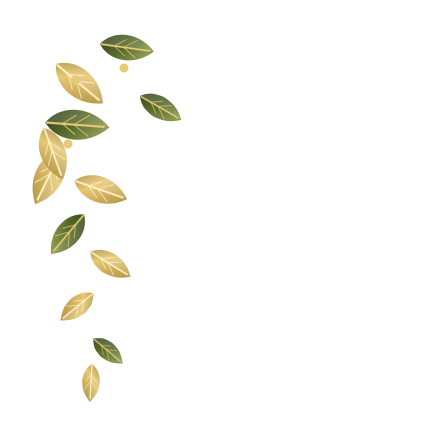
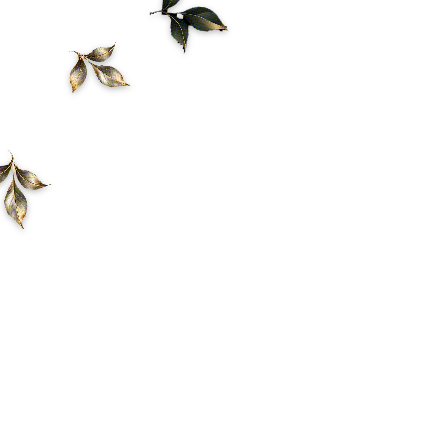
Use the supplied olive and gold leaf artwork for all leaf decoration

diff --git a/src/components/Flora.jsx b/src/components/Flora.jsx
@@ -2,7 +2,7 @@
 // baked from the vector source in FloraArt.jsx so the browser only moves flat pictures (cheap) instead of painting hundreds of shapes.
 const MIRROR = { tl: 'none', tr: 'scaleX(-1)', br: 'scale(-1,-1)', bl: 'scaleY(-1)' };
 const ORIGIN = { tl: '0 0', tr: '100% 0', br: '100% 100%', bl: '0 100%' };
-const V = '5'; // bump when the baked art changes (the server caches images for a year)
+const V = '6'; // bump when the baked art changes (the server caches images for a year)
 const LAYERS = [[`/decor/flora-1.png?v=${V}`, 0], [`/decor/flora-2.png?v=${V}`, 0.5], [`/decor/flora-3.png?v=${V}`, 1]];
 
 /** A bouquet for a frame or section corner. Layers bloom in turn (CSS) once `on`, then the bouquet sways. */
@@ -22,21 +22,13 @@ export function GarlandBlossom({ index = 0, size = 18 }) {
   return <img src={`/decor/blossom-${index % 5}.png?v=${V}`} alt="" width={size} height={size} decoding="async" style={{ display: 'block' }} />;
 }
 
-// Small inline leaf sprig (three leaves on a stem) for the footer vine, ribbon and frame corners. Named Blossom for historical reasons.
-const SPRIG = 'M0 0 C-4.6 -3 -4.6 -9 0 -12 C4.6 -9 4.6 -3 0 0Z';
-const SPRIG_HALF = 'M0 0 C4.6 -3 4.6 -9 0 -12Z';
-export function Blossom({ fill = '#566A2B', centre = '#E6C875', size = 18, className = '', x, y, style }) {
+// Small leaf sprig (the supplied olive / gold leaf artwork) for the footer vine, ribbon and frame corners.
+// `variant` is 'olive' or 'gold'. Kept under the name Blossom so existing callers keep working.
+export function Blossom({ variant = 'olive', size = 18, className = '', x, y, style }) {
   return (
-    <svg viewBox="-12 -12 24 24" width={size} height={size} x={x} y={y} className={className} style={style} aria-hidden="true">
-      <path d="M0 11 V4" stroke={centre} strokeWidth="1" strokeLinecap="round" />
-      {[[-52, 0.78], [52, 0.78], [0, 1]].map(([r, sc], i) => (
-        <g key={i} transform={`translate(0 5) rotate(${r}) scale(${sc})`}>
-          <path d={SPRIG} fill={fill} />
-          <path d={SPRIG_HALF} fill="#fff" opacity=".18" />
-          <path d="M0 -.5 V-10.5" stroke={centre} strokeWidth=".9" strokeLinecap="round" />
-        </g>
-      ))}
+    <svg viewBox="0 0 100 100" width={size} height={size} x={x} y={y} className={className} style={style} aria-hidden="true">
+      <image href={`/decor/leaf-${variant}.png?v=${V}`} width="100" height="100" preserveAspectRatio="xMidYMid meet" />
     </svg>
   );
 }
-export const BLOSSOM_COLOURS = ['#566A2B', '#C9A24A', '#3F4E21', '#8E9B52', '#E0BE63'];
+export const BLOSSOM_VARIANTS = ['olive', 'gold', 'olive', 'gold', 'gold'];

diff --git a/src/components/Footer.jsx b/src/components/Footer.jsx
@@ -2,7 +2,7 @@ import { Lnk, Txt } from '../cms/fields.jsx';
 import { useCms } from '../cms/store.jsx';
 import { Stagger, Item } from './motion.jsx';
 import { motion } from 'framer-motion';
-import { BLOSSOM_COLOURS, Blossom } from './Flora.jsx';
+import { BLOSSOM_VARIANTS, Blossom } from './Flora.jsx';
 
 const VINE = Array.from({ length: 14 }, (_, i) => ({ x: 60 + i * 80, up: i % 2 === 0 }));
 
@@ -14,14 +14,14 @@ function Vine() {
       {VINE.map((l, i) => (
         <g key={i} transform={`translate(${l.x} ${l.up ? 14 : 30})`}>
           <motion.g style={{ transformBox: 'fill-box', transformOrigin: 'center' }} initial={{ scale: 0, rotate: -90 }} whileInView={{ scale: 1, rotate: 0 }} viewport={{ once: true, margin: '-40px' }} transition={{ type: 'spring', stiffness: 130, damping: 11, delay: 0.5 + i * 0.13 }}>
-            <Blossom fill={['#566A2B', '#C9A24A', '#8E9B52'][i % 3]} centre="#E6C875" size={15} x={-7.5} y={-7.5} />
+            <Blossom variant={i % 2 ? 'gold' : 'olive'} size={22} x={-11} y={-11} />
           </motion.g>
         </g>
       ))}
       {VINE.filter((_, i) => i % 2 === 1).map((l, i) => (
         <g key={`b${i}`} transform={`translate(${l.x + 40} ${l.up ? 22 : 24})`}>
           <motion.g style={{ transformBox: 'fill-box', transformOrigin: 'center' }} initial={{ scale: 0, rotate: -60 }} whileInView={{ scale: 1, rotate: 0 }} viewport={{ once: true, margin: '-40px' }} transition={{ type: 'spring', stiffness: 130, damping: 10, delay: 1.1 + i * 0.2 }}>
-            <g className="flora__breath" style={{ animationDelay: `${i * 0.4}s` }}><Blossom fill={BLOSSOM_COLOURS[i % 3]} size={20} x={-10} y={-10} /></g>
+            <g className="flora__breath" style={{ animationDelay: `${i * 0.4}s` }}><Blossom variant={BLOSSOM_VARIANTS[i % 5]} size={26} x={-13} y={-13} /></g>
           </motion.g>
         </g>
       ))}

diff --git a/src/components/DecorFrame.jsx b/src/components/DecorFrame.jsx
@@ -14,10 +14,10 @@ function framePath(w, h, radii) {
 
 // A small leafy sprig drawn for the top-left corner; the other corners mirror it. Leaves unfurl one after another.
 const BLOOMS = [
-  { x: 6, y: 33, s: 11, c: '#C9A24A' },
-  { x: 12, y: 20, s: 14, c: '#566A2B' },
-  { x: 24, y: 11, s: 12, c: '#8E9B52' },
-  { x: 38, y: 7, s: 10, c: '#3F4E21' },
+  { x: 8, y: 33, s: 22, v: 'gold', r: -40 },
+  { x: 14, y: 21, s: 26, v: 'olive', r: -5 },
+  { x: 26, y: 12, s: 24, v: 'gold', r: 35 },
+  { x: 40, y: 8, s: 20, v: 'olive', r: 65 },
 ];
 const MIRROR = { tl: 'none', tr: 'scaleX(-1)', br: 'scale(-1,-1)', bl: 'scaleY(-1)' };
 
@@ -28,9 +28,9 @@ function Sprig({ corner, size, offset, on, delay, reduce }) {
     <svg className="decor-sprig" viewBox="0 0 60 60" width={size} height={size} style={{ ...pos, transform: MIRROR[corner] }} aria-hidden="true">
       <motion.path d="M5 44 C5 20 20 5 44 5" fill="none" stroke="currentColor" strokeWidth="1.4" strokeLinecap="round" initial={{ pathLength: 0 }} animate={{ pathLength: on ? 1 : 0 }} transition={t(0)} />
       {BLOOMS.map((l, i) => (
-        <g key={i} transform={`translate(${l.x} ${l.y})`}>
+        <g key={i} transform={`translate(${l.x} ${l.y}) rotate(${l.r})`}>
           <motion.g style={{ transformBox: 'fill-box', transformOrigin: 'center' }} initial={{ scale: 0, rotate: -120, opacity: 0 }} animate={{ scale: on ? 1 : 0, rotate: on ? 0 : -120, opacity: on ? 1 : 0 }} transition={reduce ? { duration: 0 } : { type: 'spring', stiffness: 120, damping: 11, delay: delay + 0.35 + i * 0.14 }}>
-            <Blossom fill={l.c} centre="#E6C875" size={l.s} x={-l.s / 2} y={-l.s / 2} />
+            <Blossom variant={l.v} size={l.s} x={-l.s / 2} y={-l.s} />
           </motion.g>
         </g>
       ))}

diff --git a/src/components/Ambient.jsx b/src/components/Ambient.jsx
@@ -56,7 +56,7 @@ export default function SectionDecor({ tone = 'light' }) {
           <Flora corner="bl" size={150} offset={-34} on={live} delay={0.4} className="flora--edge flora--edge-br" />
           {live && <Petals />}
           {live && FALL.filter((_, i) => i % 3 !== 2).map((l, i) => (
-            <Blossom key={i} className="ambient__leaf ambient__flower" fill={['#566A2B', '#C9A24A', '#8E9B52'][i % 3]} centre="#E6C875" size={l.s + 6} style={{ left: `${l.x}%`, '--dx': `${l.dx}px`, '--r': `${l.r}deg`, animationDuration: `${l.d}s`, animationDelay: `${l.t}s` }} />
+            <Blossom key={i} className="ambient__leaf ambient__flower" variant={i % 2 ? 'gold' : 'olive'} size={l.s + 14} style={{ left: `${l.x}%`, '--dx': `${l.dx}px`, '--r': `${l.r}deg`, animationDuration: `${l.d}s`, animationDelay: `${l.t}s` }} />
           ))}
         </>
       ) : (

diff --git a/src/cms/sections/marquee.jsx b/src/cms/sections/marquee.jsx
@@ -1,5 +1,5 @@
 import { Fragment } from 'react';
-import { BLOSSOM_COLOURS, Blossom } from '../../components/Flora.jsx';
+import { BLOSSOM_VARIANTS, Blossom } from '../../components/Flora.jsx';
 import { Txt } from '../fields.jsx';
 import { useCms } from '../store.jsx';
 
@@ -11,7 +11,7 @@ export function Marquee({ base, props: p }) {
   const run = (copy) => items.map((it, i) => (
     <Fragment key={`${copy}-${i}`}>
       <span className="ribbon__item">{copy === 0 ? <Txt path={`${base}.items.${i}.text`} /> : it.text}</span>
-      <Blossom className="ribbon__star" fill={BLOSSOM_COLOURS[i % 3]} size={22} />
+      <Blossom className="ribbon__star" variant={BLOSSOM_VARIANTS[i % 5]} size={30} />
     </Fragment>
   ));
   return (
